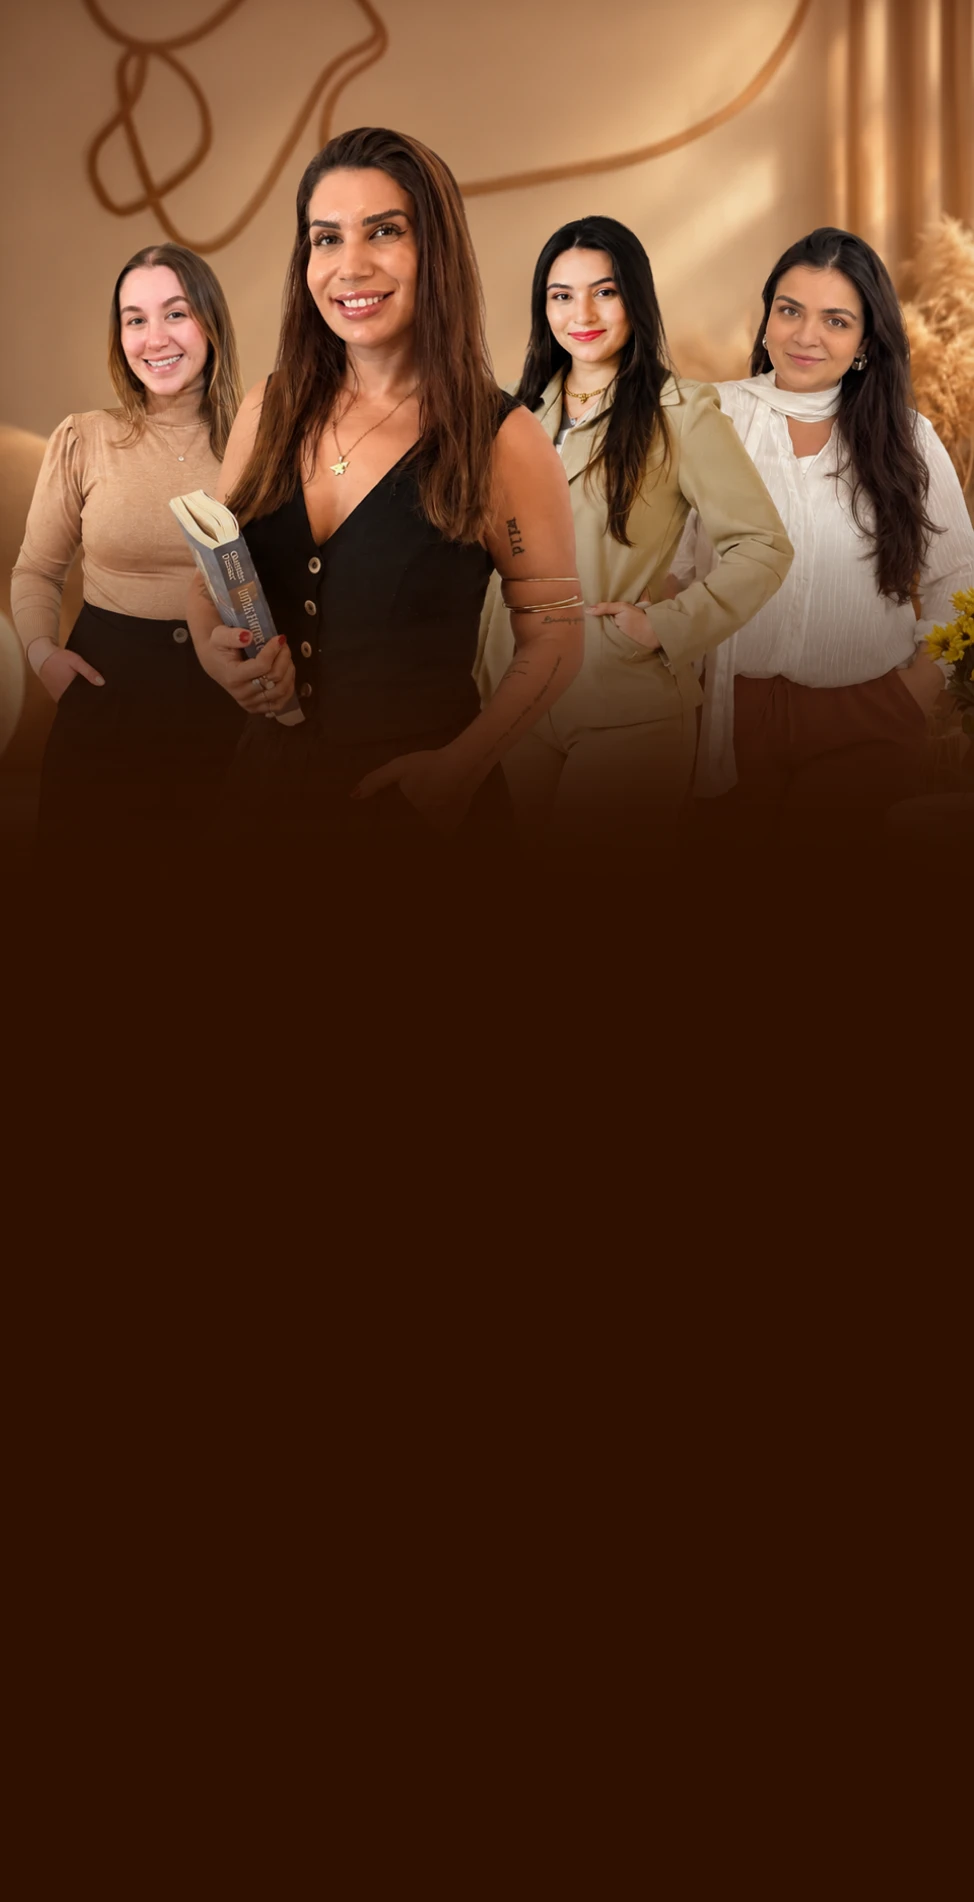
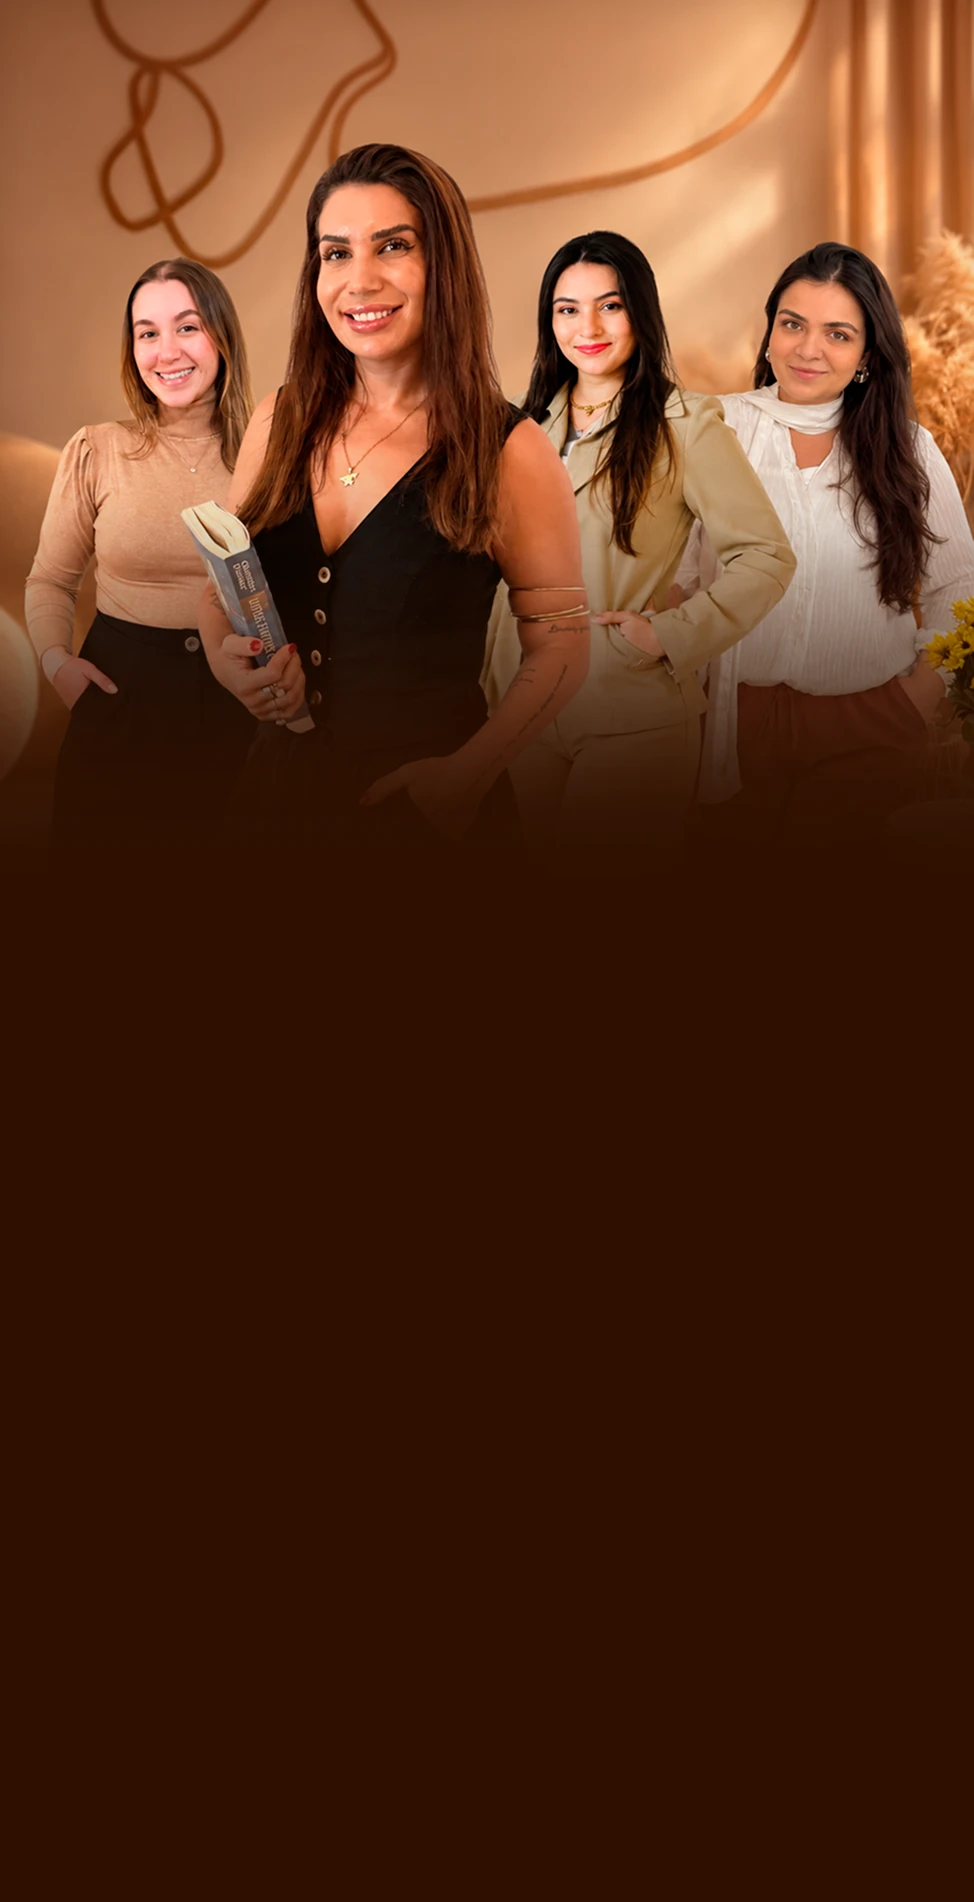
Potencialize: Sobre em duas colunas, nova foto da Letícia e novas fotos do topo
- Sobre: foto de um lado e texto do outro no desktop; centralizado no celular.
- Nova foto da Letícia (retrato) e novas imagens do topo (desktop e celular).

Changed region(s): [[0.0, 0.0, 1.0, 0.4033], [0.9548, 0.031, 0.9856, 0.062]]

diff --git a/potencialize/index.html b/potencialize/index.html
@@ -145,12 +145,13 @@
   .diff h4{font-weight:300;font-size:1.12rem;margin-top:12px;line-height:1.4}
 
   /* sobre: fundadora */
-  .founder{display:flex;flex-direction:column;align-items:center;text-align:center;margin-top:64px}
-  .founder .photo{width:min(280px,70vw);aspect-ratio:3/4}
-  .founder h3{margin-top:28px;font-size:1.7rem}
-  .founder .m-crp{margin:10px 0 0;letter-spacing:.2em}
-  .founder-text{max-width:660px;margin-top:36px;color:var(--muted)}
+  .founder-grid{display:grid;grid-template-columns:minmax(0,5fr) minmax(0,6fr);gap:96px;align-items:center}
+  .founder-grid .photo{aspect-ratio:3/4;width:100%;max-width:520px;background-position:center 30%}
+  .founder-text{margin-top:34px;color:var(--muted);max-width:560px}
   .founder-text p+p{margin-top:18px}
+  .founder-sign{margin-top:40px;padding-top:26px;border-top:1px solid var(--line);max-width:560px}
+  .founder-sign .name{display:block;font-family:var(--serif);font-size:1.6rem;line-height:1.2;color:var(--ink)}
+  .founder-sign .m-crp{margin:10px 0 0}
   .values{display:flex;flex-wrap:wrap;justify-content:center;gap:10px 34px;list-style:none;margin:72px auto 0;padding:26px 0;border-top:1px solid var(--line);border-bottom:1px solid var(--line);font-size:.72rem;font-weight:400;letter-spacing:.26em;text-transform:uppercase;color:var(--accent)}
 
   /* nossa equipe */
@@ -333,6 +334,10 @@
     .t-video figcaption{text-align:center}
     .member{grid-template-columns:220px 1fr;gap:44px}
     .about-grid{grid-template-columns:1fr;gap:56px}
+    .founder-grid{grid-template-columns:minmax(0,1fr);gap:48px}
+    .founder-grid{text-align:center}
+    .founder-grid .photo{max-width:340px;margin:0 auto}
+    .founder-text,.founder-sign{margin-left:auto;margin-right:auto}
     .gallery .photo:nth-child(even){margin-top:40px}
   }
   /* foto do topo ocupa a tela toda, presa no alto: a cabeça fica sempre abaixo do menu */
@@ -460,20 +465,18 @@
 <!-- SOBRE -->
 <section class="about" id="sobre">
   <div class="container">
-    <header class="center reveal">
-      <span class="tag">Sobre a Potencialize</span>
-      <h2>Nossa <em>história.</em></h2>
-    </header>
-
-    <div class="founder">
+    <div class="founder-grid">
       <div class="photo" role="img" aria-label="Letícia Fernandes, fundadora da Potencialize" style="--img:url('assets/fotos/leticia.jpg')"></div>
-      <h3>Letícia Fernandes</h3>
-      <span class="m-crp">Fundadora · Psicóloga · CRP 05/69793</span>
-      <div class="founder-text reveal">
-        <p>Há quase dez anos, dedico minha prática clínica à escuta e ao cuidado de cada pessoa em sua singularidade.</p>
-        <p>A Potencialize nasceu do desejo de levar esse cuidado a mais pessoas, sem abrir mão do que considero essencial: ética, responsabilidade, acolhimento, supervisão e estudo constante, acompanhando os avanços da psicologia.</p>
-        <p>Acredito que o cuidado vai além da técnica. Antes de sermos profissionais, somos humanas, e é dessa compreensão que nasce a importância de acolher cada história com respeito, sensibilidade e responsabilidade.</p>
-        <p>Foi a partir desses valores que reuni psicólogas em quem confio e que compartilham do mesmo compromisso. Juntas, construímos a Potencialize, somando diferentes conhecimentos e olhares para oferecer uma psicologia ética, atualizada e comprometida com cada pessoa.</p>
+      <div class="reveal">
+        <span class="tag">Sobre a Potencialize</span>
+        <h2>Nossa <em>história.</em></h2>
+        <div class="founder-text">
+          <p>Há quase dez anos, dedico minha prática clínica à escuta e ao cuidado de cada pessoa em sua singularidade.</p>
+          <p>A Potencialize nasceu do desejo de levar esse cuidado a mais pessoas, sem abrir mão do que considero essencial: ética, responsabilidade, acolhimento, supervisão e estudo constante, acompanhando os avanços da psicologia.</p>
+          <p>Acredito que o cuidado vai além da técnica. Antes de sermos profissionais, somos humanas, e é dessa compreensão que nasce a importância de acolher cada história com respeito, sensibilidade e responsabilidade.</p>
+          <p>Foi a partir desses valores que reuni psicólogas em quem confio e que compartilham do mesmo compromisso. Juntas, construímos a Potencialize, somando diferentes conhecimentos e olhares para oferecer uma psicologia ética, atualizada e comprometida com cada pessoa.</p>
+        </div>
+        <p class="founder-sign"><span class="name">Letícia Fernandes</span><span class="m-crp">Fundadora · Psicóloga · CRP 05/69793</span></p>
       </div>
     </div>
 
